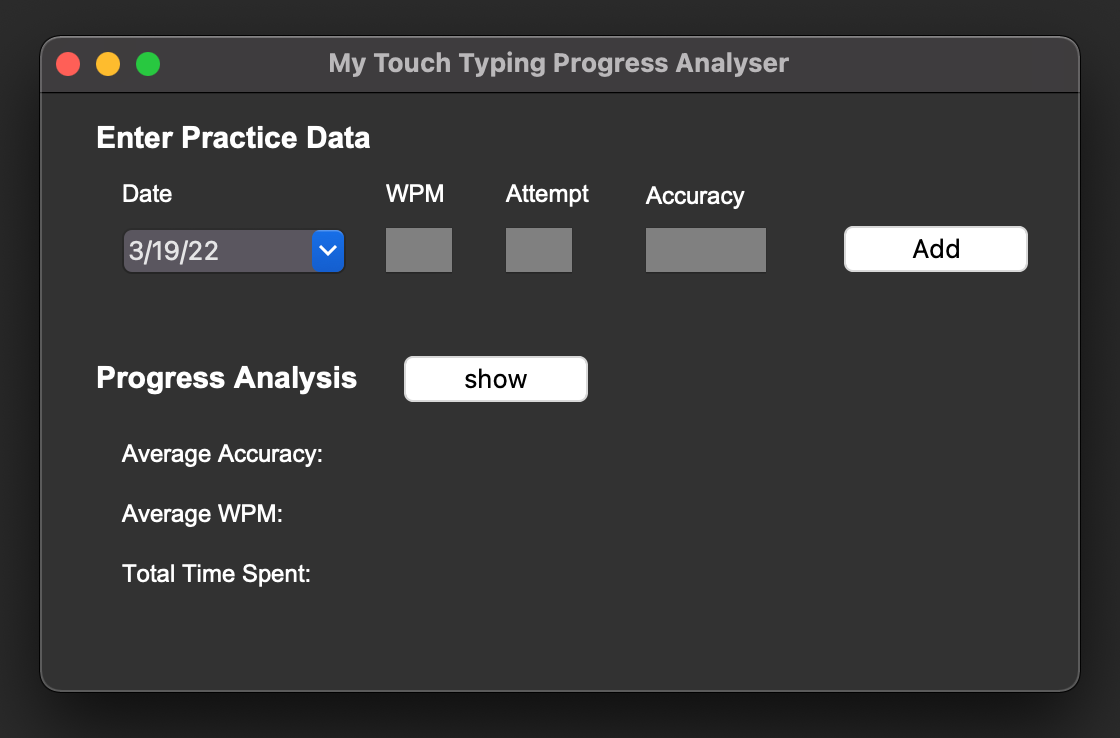
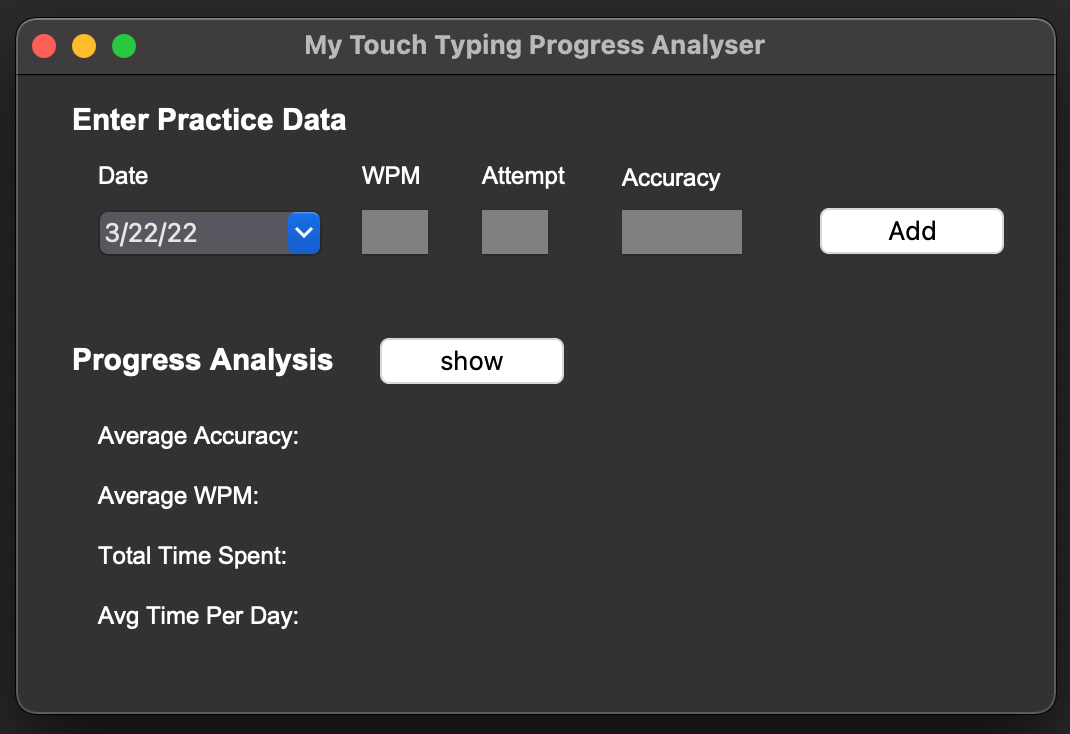
Modify to create CSV file if not exist

diff --git a/GUI_Prog.py b/GUI_Prog.py
@@ -2,10 +2,18 @@ from tkinter import *
 from sys import platform
 from tkcalendar import Calendar, DateEntry
 import csv
-
+import os.path
 if platform == "darwin":
     from tkmacosx import Button
 
+FILE_NAME = 'touchTypingProgress.csv'
+
+if not os.path.isfile(FILE_NAME):
+    # open(FILE_NAME, 'a').close()
+    header = 'day','speed','attempt','accuracy'
+    with open(FILE_NAME, 'a', newline='') as f:
+        writer = csv.writer(f)
+        writer.writerow(header)
 
 def add_new_data():
     """
@@ -21,7 +29,7 @@ def add_new_data():
         wpm_value.delete(0, END)
         attempt_count.delete(0, END)
         accuracy_value.delete(0, END)
-        with open('touchTypingProgress.csv', 'a', newline='') as f:
+        with open(FILE_NAME, 'a', newline='') as f:
             writer = csv.writer(f)
             writer.writerow(data)
         waring_msg.config(text="DATA ADDED")
@@ -39,15 +47,15 @@ def analyse_data():
     days = []
     set_of_days = set()
     accuracy_list = []
-    time = 0
+    avg_accuracy, avg_wpm, time_spent, time_spent_per_day = 0,0,0,0
 
-    with open("touchTypingProgress.csv", "r") as file:
+    with open(FILE_NAME, "r") as file:
         for line in file:
             records.append(line.strip())
 
     for record in records[1:]:
         if record != '':
-            time += 1
+            time_spent += 1
             typing_speed.append(int(record.split(",")[1]))
             days.append(record.split(",")[0])
             set_of_days = set(days)
@@ -55,7 +63,13 @@ def analyse_data():
                 # accuracy
                 accuracy_list.append(float(record.split(",")[3]))
 
-    return sum(accuracy_list) / len(accuracy_list), sum(typing_speed) / len(typing_speed), time, time/len(set_of_days)
+    if len(accuracy_list) != 0 and len(typing_speed) != 0:
+        avg_accuracy = sum(accuracy_list) / len(accuracy_list)
+        avg_wpm = sum(typing_speed) / len(typing_speed)
+        time_spent_per_day = time_spent/len(set_of_days)
+
+    return avg_accuracy,avg_wpm,time_spent, time_spent_per_day
+    # return sum(accuracy_list) / len(accuracy_list), sum(typing_speed) / len(typing_speed), time, time/len(set_of_days)
 
 
 # def cal_attempts_per_day(days):

diff --git a/ProgressAnalyser.py b/ProgressAnalyser.py
@@ -1,4 +1,4 @@
-import matplotlib.pyplot as plt
+# import matplotlib.pyplot as plt
 # https://matplotlib.org/stable/tutorials/introductory/pyplot.html
 
 records = []

diff --git a/README.md b/README.md
@@ -1,5 +1,23 @@
 # Touch Typing Progress
 
-![img.png](images/img.png)
+This code is developed to keep track me practicing touch typing. The code is tested on both Windows 10 and macOS Big Sur.
 
-![img_1.png](images/img_1.png)
+#### Steps to Run
+1. Make sure you have Python 3 installed on your computer.
+2. Change the current directory (cd) to where requirements.txt is located.
+3. Run: `pip install -r requirements.txt` in your shell.
+4. Then run `python GUI_Prog.py`. Alternatively, you can open the project in a preferred IDE (e.g. PyCharm) and run GUI_Prog.py 
+
+#### How to use the program
+
+> Note: I am using [10 Fast Fingers](https://10fastfingers.com/typing-test/english) website to practice touch typing and enter the data using this program. 
+> As mentioned above this is jsut a fun project. Once you enter the data it will create `touchTypingProgress.csv` file with which bear your practice data. 
+
+1. Enter your practice data on the provided GUI (see the attached figure below).
+2. Date will be automatically filled (You can also click on the down arrow and pick a date from the date picker).
+3. Enter Word Per Minute (WPM) value, attempt count per daay (i.e. each day first attempt is number 1, second attempt is 2 etc.), then the accuracy of you typing (e.g., 98.78), then hit `Add` button.
+4. This will show a message if the data is successfully added to the CSV file.
+5. Click `Show` button to see some basic statistics of your progress.
+
+
+![img.png](images/img.png)
